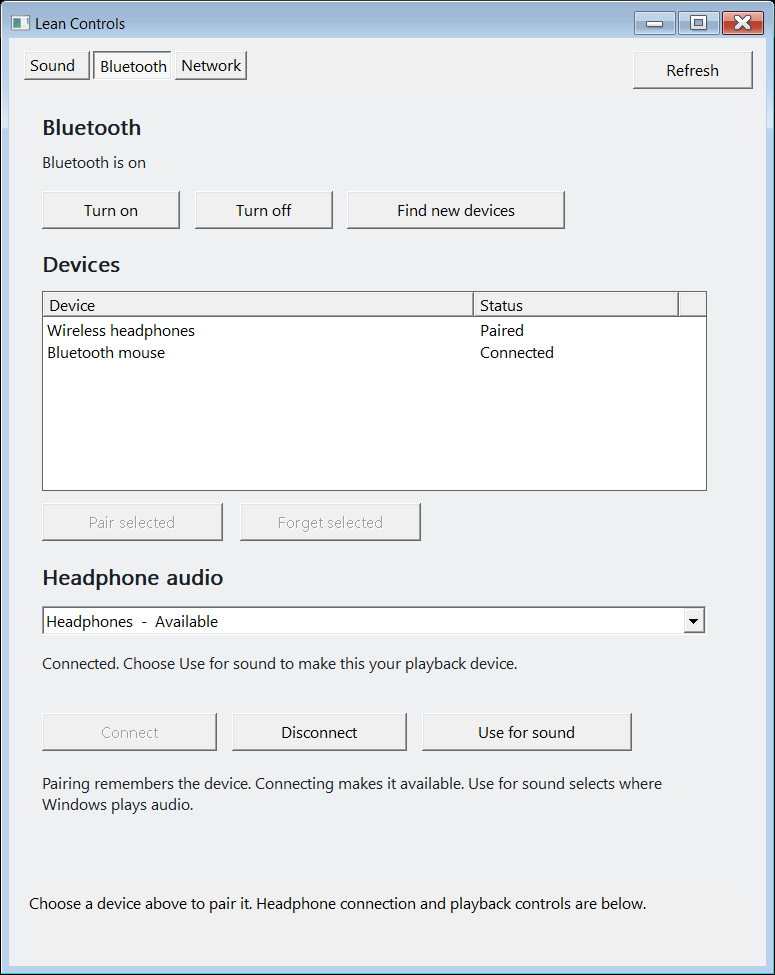
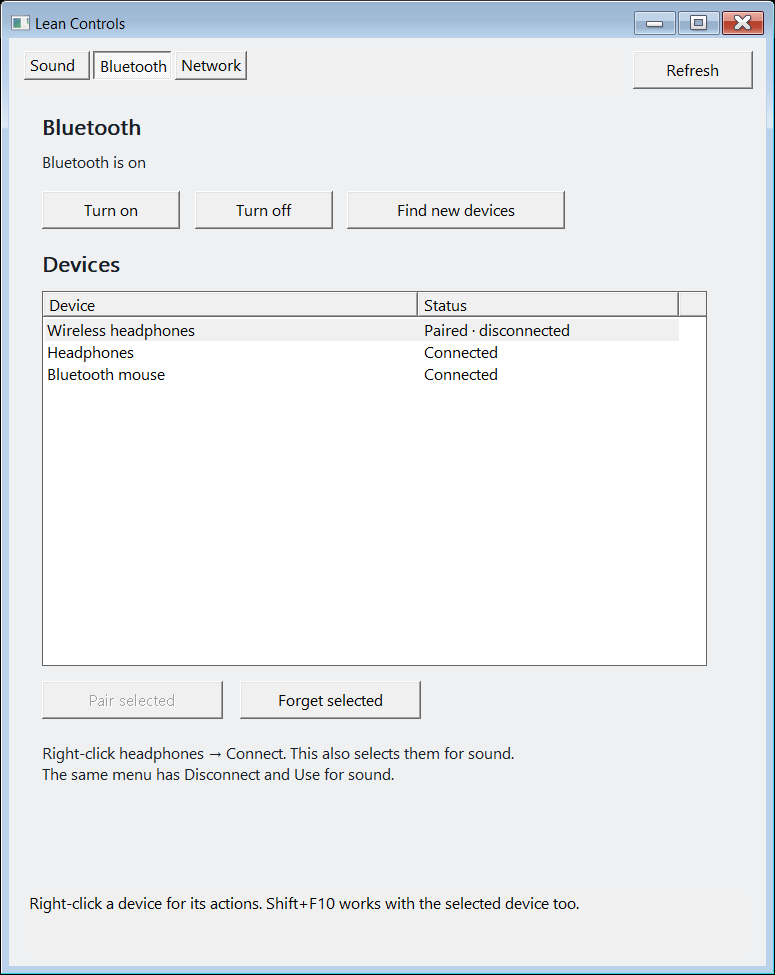
Connect Bluetooth headphones directly from their context menu

diff --git a/ControlsWireless.h b/ControlsWireless.h
@@ -7,12 +7,12 @@
 #include <winrt/Windows.Devices.Radios.h>
 using namespace winrt::Windows::Devices::Enumeration;
 using namespace winrt::Windows::Devices::Radios;
-struct BtDevice { DeviceInformation info{nullptr}; std::wstring name; bool paired=false,connected=false; };
+struct BtDevice { DeviceInformation info{nullptr}; std::wstring name; bool paired=false,connected=false;std::wstring container,aepContainer; };
 static std::vector<BtDevice> bluetoothDevices;
-static HWND bluetoothList{}, bluetoothAudioCombo{}, wifiList{}, wifiAdapterCombo{};
+static HWND bluetoothList{}, wifiList{}, wifiAdapterCombo{};
 static std::vector<AudioOutput> bluetoothOutputs;
-static HWND bluetoothRadioLabel{},bluetoothAudioStatus{};
-static std::wstring bluetoothRadioStatus=L"Checking Bluetooth...",selectedBluetoothOutput;
+static HWND bluetoothRadioLabel{};
+static std::wstring bluetoothRadioStatus=L"Checking Bluetooth...";
 static HANDLE wlan{};
 static std::vector<WLAN_INTERFACE_INFO> wifiAdapters;
 struct WifiNetwork { std::wstring name,profile; DOT11_SSID ssid{}; DOT11_AUTH_ALGORITHM auth{}; DOT11_CIPHER_ALGORITHM cipher{}; bool connected=false,secure=false; ULONG signal=0; };
@@ -52,28 +52,35 @@ static void UpdateBluetoothDeviceButtons(){
     EnableWindow(GetDlgItem(content,214),selected && !bluetoothDevices[i].paired);
     EnableWindow(GetDlgItem(content,215),selected && bluetoothDevices[i].paired);
 }
-static void UpdateBluetoothAudioButtons(){
-    int i=bluetoothAudioCombo?static_cast<int>(SendMessage(bluetoothAudioCombo,CB_GETCURSEL,0,0)):-1;
-    bool selected=i>=0 && i<static_cast<int>(bluetoothOutputs.size());
-    bool connected=selected && bluetoothOutputs[i].state==DEVICE_STATE_ACTIVE;
-    bool current=selected && bluetoothOutputs[i].id==CurrentOutput();
-    EnableWindow(GetDlgItem(content,217),selected && !connected && !(bluetoothOutputs[i].state&DEVICE_STATE_DISABLED));
-    EnableWindow(GetDlgItem(content,218),connected);
-    EnableWindow(GetDlgItem(content,219),connected && !current && !busy);
-    if(selected)selectedBluetoothOutput=bluetoothOutputs[i].id;
-    const wchar_t* state=!selected?L"No compatible headphone output found. Pair headphones, then refresh.":current?L"Connected and selected for playback.":connected?L"Connected. Choose Use for sound to make this your playback device.":L"Not connected. Turn on your headphones and choose Connect.";
-    if(bluetoothAudioStatus)SetWindowText(bluetoothAudioStatus,state);
+static std::wstring DeviceContainer(const DeviceInformation& d,const wchar_t* property){
+    try{auto value=d.Properties().TryLookup(property);return value?ContainerKey(winrt::unbox_value<winrt::guid>(value)):L"";}catch(...){return L"";}
+}
+static std::vector<AudioOutput> DeviceAudio(const BtDevice& device,const std::vector<AudioOutput>& all){
+    std::vector<AudioOutput> found;
+    for(const auto& output:all)if(!output.container.empty() && (output.container==device.container || output.container==device.aepContainer))found.push_back(output);
+    return found;
+}
+static int PreferredBluetoothOutput(const std::vector<AudioOutput>& audio,bool activeOnly=false){
+    auto current=CurrentOutput();int chosen=-1;
+    for(int i=0;i<static_cast<int>(audio.size());++i){auto& a=audio[i];if(a.state&DEVICE_STATE_DISABLED || (activeOnly && a.state!=DEVICE_STATE_ACTIVE))continue;
+        if(chosen<0 || (a.state==DEVICE_STATE_ACTIVE && audio[chosen].state!=DEVICE_STATE_ACTIVE) || a.id==current)chosen=i;
+        if(a.id==current && a.state==DEVICE_STATE_ACTIVE)break;
+    }return chosen;
 }
 static void FillBluetoothList() {
-    if(!bluetoothList)return;ListView_DeleteAllItems(bluetoothList);
-    for(int i=0;i<static_cast<int>(bluetoothDevices.size());++i) {auto& d=bluetoothDevices[i];ListRow(bluetoothList,i,d.name,d.connected?L"Connected":d.paired?L"Paired":L"Ready to pair");}
+    if(!bluetoothList)return;ListView_DeleteAllItems(bluetoothList);auto current=CurrentOutput();
+    for(int i=0;i<static_cast<int>(bluetoothDevices.size());++i) {auto& d=bluetoothDevices[i];auto audio=DeviceAudio(d,bluetoothOutputs);int active=PreferredBluetoothOutput(audio,true);
+        std::wstring state=!d.paired?L"Ready to pair":active>=0?(audio[active].id==current?L"Connected · sound output":L"Connected"):
+            !audio.empty()?L"Paired · disconnected":d.connected?L"Connected":L"Paired";
+        ListRow(bluetoothList,i,d.name,state);
+    }
     UpdateBluetoothDeviceButtons();
 }
 static std::vector<BtDevice> CollectBluetoothDevices(bool discover) {
         std::vector<BtDevice> found;
         const wchar_t* query=L"System.Devices.Aep.ProtocolId:=\"{e0cbf06c-cd8b-4647-bb8a-263b43f0f974}\" OR System.Devices.Aep.ProtocolId:=\"{bb7bb05e-5972-42b5-94fc-76eaa7084d49}\"";
-        auto props=winrt::single_threaded_vector<winrt::hstring>({L"System.Devices.Aep.IsConnected"});
-        auto collect=[&](const DeviceInformation& d){if(d.Name().empty())return;found.push_back({d,d.Name().c_str(),d.Pairing().IsPaired(),DeviceFlag(d,L"System.Devices.Aep.IsConnected")});};
+        auto props=winrt::single_threaded_vector<winrt::hstring>({L"System.Devices.Aep.IsConnected",L"System.Devices.ContainerId",L"System.Devices.Aep.ContainerId"});
+        auto collect=[&](const DeviceInformation& d){if(d.Name().empty())return;found.push_back({d,d.Name().c_str(),d.Pairing().IsPaired(),DeviceFlag(d,L"System.Devices.Aep.IsConnected"),DeviceContainer(d,L"System.Devices.ContainerId"),DeviceContainer(d,L"System.Devices.Aep.ContainerId")});};
         {
             struct ScanState {std::mutex lock;std::map<std::wstring,DeviceInformation> devices;};
             auto state=std::make_shared<ScanState>();
@@ -94,7 +101,7 @@ static void ReadBluetooth(bool discover) {
         for(auto r:Radio::GetRadiosAsync().get())if(r.Kind()==RadioKind::Bluetooth){hasRadio=true;on=on || r.State()==RadioState::On;}
         std::wstring radios=!hasRadio?L"No Bluetooth adapter found":on?L"Bluetooth is on":L"Bluetooth is off";
         Deliver([found=std::move(found),radios]() mutable {bluetoothDevices=std::move(found);bluetoothRadioStatus=radios;if(page==1){FillBluetoothList();SetWindowText(bluetoothRadioLabel,radios.c_str());}});
-        return discover?L"Scan complete. Select a device, then choose Pair.":L"Paired devices are listed above. Connect headphones in the Audio section.";
+        return discover?L"Scan complete. Select a device, then choose Pair.":L"Right-click your headphones and choose Connect.";
     },discover?L"Scanning for eight seconds. Put the new device in pairing mode...":L"Reading Bluetooth devices...");
 }
 static void BuildBluetooth(bool scan) {
@@ -102,28 +109,18 @@ static void BuildBluetooth(bool scan) {
     bluetoothRadioLabel=Add(L"STATIC",demo?L"Bluetooth is on":bluetoothRadioStatus.c_str(),0,16,38,532,24);
     Add(L"BUTTON",L"Turn on",0,16,70,110,30,210);Add(L"BUTTON",L"Turn off",0,138,70,110,30,211);Add(L"BUTTON",L"Find new devices",0,260,70,174,30,212);
     Section(L"Devices",116);
-    bluetoothList=MakeList(213,150,160,{{L"Device",345},{L"Status",164}});
-    if(demo) {ListRow(bluetoothList,0,L"Wireless headphones",L"Paired");ListRow(bluetoothList,1,L"Bluetooth mouse",L"Connected");}
-    else FillBluetoothList();
-    Add(L"BUTTON",L"Pair selected",0,16,320,145,30,214);Add(L"BUTTON",L"Forget selected",0,174,320,145,30,215);
-    Section(L"Headphone audio",366);
-    bluetoothAudioCombo=Add(L"COMBOBOX",L"",CBS_DROPDOWNLIST|WS_VSCROLL,16,402,532,230,216);
-    bluetoothOutputs.clear();
-    for(auto& output:demo?DemoOutputs():ReadOutputs(true))if(output.bluetooth)bluetoothOutputs.push_back(output);
-    int chosen=0;auto current=CurrentOutput();
-    for(int i=0;i<static_cast<int>(bluetoothOutputs.size());++i){auto& output=bluetoothOutputs[i];std::wstring text=output.name+L"  -  "+OutputState(output,current);SendMessage(bluetoothAudioCombo,CB_ADDSTRING,0,reinterpret_cast<LPARAM>(text.c_str()));if(output.id==selectedBluetoothOutput || (selectedBluetoothOutput.empty() && output.id==current))chosen=i;}
-    SendMessage(bluetoothAudioCombo,CB_SETCURSEL,chosen,0);
-    bluetoothAudioStatus=Add(L"STATIC",L"",0,16,439,532,39);
-    Add(L"BUTTON",L"Connect",0,16,488,140,30,217);Add(L"BUTTON",L"Disconnect",0,168,488,140,30,218);Add(L"BUTTON",L"Use for sound",0,320,488,168,30,219);
-    Add(L"STATIC",L"Pairing remembers the device. Connecting makes it available. Use for sound selects where Windows plays audio.",0,16,535,532,46);
-    ContentHeight(590);UpdateBluetoothDeviceButtons();UpdateBluetoothAudioButtons();
-    Status(L"Choose a device above to pair it. Headphone connection and playback controls are below.");
+    bluetoothList=MakeList(213,150,300,{{L"Device",300},{L"Status",209}});
+    bluetoothOutputs=demo?DemoOutputs():ReadOutputs(true);
+    if(demo)bluetoothDevices={{nullptr,L"Wireless headphones",true,false,L"demo-wireless-container",L""},{nullptr,L"Headphones",true,true,L"demo-headphones-container",L""},{nullptr,L"Bluetooth mouse",true,true,L"demo-mouse-container",L""}};
+    FillBluetoothList();
+    Add(L"BUTTON",L"Pair selected",0,16,462,145,30,214);Add(L"BUTTON",L"Forget selected",0,174,462,145,30,215);
+    Add(L"STATIC",L"Right-click headphones → Connect. This also selects them for sound.\nThe same menu has Disconnect and Use for sound.",0,16,511,532,50);
+    ContentHeight(568);UpdateBluetoothDeviceButtons();
+    Status(L"Right-click a device for its actions. Shift+F10 works with the selected device too.");
     if(!demo && scan)ReadBluetooth(false);
 }
-static void PairBluetooth(bool forget) {
-    int i=ListView_GetNextItem(bluetoothList,-1,LVNI_SELECTED);
-    if(i<0 || i>=static_cast<int>(bluetoothDevices.size())){Status(L"Select a Bluetooth device first.");return;}
-    auto d=bluetoothDevices[i];
+static void PairBluetoothDevice(const BtDevice& d,bool forget) {
+    if(demo){Status(L"Preview only. No device changed.");return;}
     if(forget && MessageBox(mainWindow,(L"Forget "+d.name+L"? You will need to pair it again.").c_str(),L"Forget device",MB_YESNO|MB_ICONQUESTION)!=IDYES)return;
     RunAsync([d,forget]{
         if(forget){auto r=d.info.Pairing().UnpairAsync().get();return r.Status()==DeviceUnpairingResultStatus::Unpaired || r.Status()==DeviceUnpairingResultStatus::AlreadyUnpaired?L"Device forgotten. Refresh to update the list.":L"Windows could not unpair this device (status "+std::to_wstring(static_cast<int>(r.Status()))+L").";}
@@ -137,6 +134,51 @@ static void PairBluetooth(bool forget) {
         auto result=custom.PairAsync(DevicePairingKinds::ConfirmOnly|DevicePairingKinds::ConfirmPinMatch|DevicePairingKinds::DisplayPin|DevicePairingKinds::ProvidePin).get();custom.PairingRequested(token);
         return result.Status()==DevicePairingResultStatus::Paired || result.Status()==DevicePairingResultStatus::AlreadyPaired?L"Device paired. Refresh, then connect its audio if needed.":L"Pairing did not complete (status "+std::to_wstring(static_cast<int>(result.Status()))+L").";
     },forget?L"Forgetting device...":L"Pairing device...");
+}
+static void PairBluetooth(bool forget){
+    int i=ListView_GetNextItem(bluetoothList,-1,LVNI_SELECTED);
+    if(i<0 || i>=static_cast<int>(bluetoothDevices.size())){Status(L"Select a Bluetooth device first.");return;}PairBluetoothDevice(bluetoothDevices[i],forget);
+}
+static HMENU BluetoothDeviceMenu(const BtDevice& device,const std::vector<AudioOutput>& audio){
+    HMENU menu=CreatePopupMenu();int active=PreferredBluetoothOutput(audio,true);
+    bool connect=device.paired && std::any_of(audio.begin(),audio.end(),[](auto& a){return a.bluetooth && !(a.state&DEVICE_STATE_DISABLED);});
+    bool disconnect=std::any_of(audio.begin(),audio.end(),[](auto& a){return a.bluetooth && a.state==DEVICE_STATE_ACTIVE;});
+    auto add=[&](UINT id,const wchar_t* text,bool enabled){AppendMenu(menu,MF_STRING|(!busy && enabled?MF_ENABLED:MF_GRAYED),id,text);};
+    add(4001,L"Connect",connect || active>=0);add(4002,L"Disconnect",disconnect);add(4003,L"Use for sound",active>=0);
+    AppendMenu(menu,MF_SEPARATOR,0,nullptr);add(4010,L"Pair",!device.paired);add(4011,L"Forget device",device.paired);return menu;
+}
+static void BluetoothDeviceAction(const BtDevice& device,UINT command){
+    if(command==4010 || command==4011){PairBluetoothDevice(device,command==4011);return;}
+    if(command<4001 || command>4003)return;
+    if(demo){Status(L"Preview: "+device.name+L" selected. No real device changed.");return;}
+    RunAsync([device,command]() -> std::wstring {
+        // Re-resolve this physical device, never the current selection or a name match.
+        auto audio=DeviceAudio(device,ReadOutputs(true));int active=PreferredBluetoothOutput(audio,true);
+        if(command==4002){
+            int disconnected=0;for(auto& a:audio)if(a.bluetooth && a.state==DEVICE_STATE_ACTIVE){BluetoothAudioRequest(a.id,false);++disconnected;}
+            auto after=DeviceAudio(device,ReadOutputs(true));return PreferredBluetoothOutput(after,true)<0?device.name+L" disconnected.":disconnected?L"Disconnect requested. Refresh to check the device.":L"No supported connected audio output was found for this device.";
+        }
+        if(active<0 && command==4001){
+            auto candidate=std::find_if(audio.begin(),audio.end(),[](auto& a){return a.bluetooth && !(a.state&DEVICE_STATE_DISABLED);});
+            if(candidate==audio.end())return L"No supported audio connection was found for these headphones. Pair them first, then Refresh.";
+            auto result=BluetoothAudioRequest(candidate->id,true);audio=DeviceAudio(device,ReadOutputs(true));active=PreferredBluetoothOutput(audio,true);if(active<0)return result;
+        }
+        if(active<0)return L"These headphones are not connected. Choose Connect first.";
+        HRESULT hr=MakeDefaultOutput(audio[active].id);
+        if(FAILED(hr))return device.name+L" is connected, but Windows could not select it for sound: "+ErrorText(hr);
+        if(DefaultOutput()!=audio[active].id)return device.name+L" is connected. Windows has not switched the sound output yet.";
+        return L"Connected and playing through: "+device.name;
+    },command==4002?L"Disconnecting "+device.name+L"...":L"Connecting / selecting "+device.name+L"...",true);
+}
+static void ShowBluetoothMenu(POINT point){
+    int index=-1;
+    if(point.x==-1 && point.y==-1){index=ListView_GetNextItem(bluetoothList,-1,LVNI_SELECTED);RECT row{};if(index>=0 && ListView_GetItemRect(bluetoothList,index,&row,LVIR_BOUNDS)){point={row.left+S(20),row.bottom};ClientToScreen(bluetoothList,&point);}}
+    else {POINT local=point;ScreenToClient(bluetoothList,&local);LVHITTESTINFO hit{};hit.pt=local;index=ListView_HitTest(bluetoothList,&hit);}
+    if(index<0 || index>=static_cast<int>(bluetoothDevices.size()))return;
+    ListView_SetItemState(bluetoothList,index,LVIS_SELECTED|LVIS_FOCUSED,LVIS_SELECTED|LVIS_FOCUSED);
+    auto device=bluetoothDevices[index];auto audio=DeviceAudio(device,bluetoothOutputs);HMENU menu=BluetoothDeviceMenu(device,audio);
+    UINT command=TrackPopupMenu(menu,TPM_RETURNCMD|TPM_RIGHTBUTTON,point.x,point.y,0,mainWindow,nullptr);DestroyMenu(menu);
+    if(command)BluetoothDeviceAction(device,command);
 }
 static std::wstring SetBluetoothRadio(bool on) {
     auto access=Radio::RequestAccessAsync().get();

diff --git a/LeanControls.cpp b/LeanControls.cpp
@@ -107,7 +107,7 @@ static void BuildPage(bool scanBluetooth){
     ClearAudio();if(page!=0){audioScroll=0;SetAudioWatch(L"");}
     for(auto& c:controls)DestroyWindow(c.hwnd);controls.clear();
     masterSlider=masterMute=masterValue=outputCombo=nullptr;
-    bluetoothList=bluetoothAudioCombo=wifiList=wifiAdapterCombo=nullptr;
+    bluetoothList=wifiList=wifiAdapterCombo=nullptr;
     scrollOffset=0;contentHeight=520;
     try{if(page==0)BuildSound();else if(page==1)BuildBluetooth(scanBluetooth);else BuildNetwork();}
     catch(const winrt::hresult_error& e){Status(ErrorText(e.code()));}
@@ -124,15 +124,12 @@ static void HandleCommand(int id,int notification){
         if(i>=0 && i<static_cast<int>(outputs.size())){selectedOutput=outputs[i].id;audioScroll=0;PostMessage(mainWindow,WM_APP+9,0,0);}return;
     }
     if(id==111){RequestAudioOutput(selectedOutput);return;}
-    if(id==216 && notification==CBN_SELCHANGE){UpdateBluetoothAudioButtons();return;}
-    if(id==219){int i=static_cast<int>(SendMessage(bluetoothAudioCombo,CB_GETCURSEL,0,0));if(i>=0 && i<static_cast<int>(bluetoothOutputs.size()))RequestAudioOutput(bluetoothOutputs[i].id);return;}
     if(demo)return;
     if(id==121){HRESULT hr=master?master->SetMute(SendMessage(masterMute,BM_GETCHECK,0,0)==BST_CHECKED,&AudioContext):E_FAIL;if(FAILED(hr))Status(ErrorText(hr));}
     else if(id>=1001 && (id-1001)%2==0){int i=(id-1001)/2;if(i<static_cast<int>(audioRows.size())){auto& row=audioRows[i];if(row.volume){HRESULT hr=row.volume->SetMute(SendMessage(row.mute,BM_GETCHECK,0,0)==BST_CHECKED,&AudioContext);if(FAILED(hr))Status(ErrorText(hr));}}}
     else if(id==210 || id==211)RunAsync([id]{return SetBluetoothRadio(id==210);},L"Changing Bluetooth radio state...",true);
     else if(id==212)ReadBluetooth(true);
     else if(id==214 || id==215)PairBluetooth(id==215);
-    else if(id==217 || id==218){int i=static_cast<int>(SendMessage(bluetoothAudioCombo,CB_GETCURSEL,0,0));if(i>=0 && i<static_cast<int>(bluetoothOutputs.size())){auto endpoint=bluetoothOutputs[i].id;RunAsync([endpoint,id]{return BluetoothAudioRequest(endpoint,id==217);},id==217?L"Connecting headphones...":L"Disconnecting headphones...",true);}else Status(L"Pair your headphones first, then refresh this page.");}
     else if(id==310 && notification==CBN_SELCHANGE){adapterIndex=static_cast<int>(SendMessage(wifiAdapterCombo,CB_GETCURSEL,0,0));BuildPage();}
     else if(id==311 && !wifiAdapters.empty()){DWORD error=WlanScan(wlan,&wifiAdapters[adapterIndex].InterfaceGuid,nullptr,nullptr,nullptr);Status(error?L"Scan unavailable: "+ErrorText(HRESULT_FROM_WIN32(error)):L"Scanning nearby networks...");}
     else if(id==312 || id==313)WifiRadio(id==312);
@@ -142,6 +139,7 @@ static void HandleCommand(int id,int notification){
 static LRESULT CALLBACK ContentProcedure(HWND w,UINT msg,WPARAM wp,LPARAM lp){
     switch(msg){
     case WM_NOTIFY:if(reinterpret_cast<NMHDR*>(lp)->hwndFrom==bluetoothList)UpdateBluetoothDeviceButtons();return 0;
+    case WM_CONTEXTMENU:if(page==1 && reinterpret_cast<HWND>(wp)==bluetoothList){ShowBluetoothMenu({GET_X_LPARAM(lp),GET_Y_LPARAM(lp)});return 0;}break;
     case WM_COMMAND:try{HandleCommand(LOWORD(wp),HIWORD(wp));}catch(HRESULT hr){Status(ErrorText(hr));}catch(const winrt::hresult_error& e){Status(ErrorText(e.code()));}return 0;
     case WM_HSCROLL:AudioSlider(reinterpret_cast<HWND>(lp));return 0;
     case WM_VSCROLL:{int command=LOWORD(wp);if(command==SB_LINEUP)scrollOffset-=S(32);if(command==SB_LINEDOWN)scrollOffset+=S(32);if(command==SB_PAGEUP)scrollOffset-=S(220);if(command==SB_PAGEDOWN)scrollOffset+=S(220);if(command==SB_THUMBTRACK || command==SB_THUMBPOSITION){SCROLLINFO si{sizeof(si),SIF_TRACKPOS};GetScrollInfo(w,SB_VERT,&si);scrollOffset=si.nTrackPos;}ScrollLayout();return 0;}
@@ -220,6 +218,7 @@ static int Probe(const std::wstring& path){
     std::thread bt([&report]{
         try{winrt::init_apartment(winrt::apartment_type::multi_threaded);auto radios=Radio::GetRadiosAsync().get();int count=0;for(auto r:radios)if(r.Kind()==RadioKind::Bluetooth)++count;report<<L"Bluetooth radios: "<<count<<L"\n";
             auto devices=CollectBluetoothDevices(false);report<<L"Paired Bluetooth devices: "<<devices.size()<<L"\n";
+            auto audio=ReadOutputs(true);for(auto& device:devices){auto matched=DeviceAudio(device,audio);report<<L"Device: "<<device.name<<L"; audio matches="<<matched.size()<<L"; reconnect controls="<<std::count_if(matched.begin(),matched.end(),[](auto& a){return a.bluetooth;})<<L"\n";}
         }catch(const winrt::hresult_error& e){report<<L"Bluetooth probe: "<<ErrorText(e.code())<<L"\n";}winrt::uninit_apartment();
     });bt.join();
     WifiNetwork sample;sample.name=L"A&B <home>";sample.secure=true;sample.auth=DOT11_AUTH_ALGO_RSNA_PSK;sample.ssid.uSSIDLength=3;sample.ssid.ucSSID[0]='A';sample.ssid.ucSSID[1]='&';sample.ssid.ucSSID[2]='B';auto xml=WifiProfile(sample,L"pass<&word");bool escaped=xml.find(L"A&amp;B &lt;home&gt;")!=std::wstring::npos && xml.find(L"pass&lt;&amp;word")!=std::wstring::npos && xml.find(L"412642")!=std::wstring::npos;report<<(escaped?L"PASS":L"FAIL")<<L" Wi-Fi XML escaping and raw SSID bytes\n";if(!escaped)++failures;
@@ -276,10 +275,16 @@ int WINAPI wWinMain(HINSTANCE h,HINSTANCE,PWSTR,int){
                 selectedOutput=demoDefaultOutput;BuildPage(false);
             }
             if(page==1){
-                SendMessage(bluetoothAudioCombo,CB_SETCURSEL,1,0);UpdateBluetoothAudioButtons();
-                layoutOk=layoutOk && IsWindowEnabled(GetDlgItem(content,217)) && !IsWindowEnabled(GetDlgItem(content,219));
-                SendMessage(bluetoothAudioCombo,CB_SETCURSEL,0,0);UpdateBluetoothAudioButtons();
-                layoutOk=layoutOk && !IsWindowEnabled(GetDlgItem(content,217)) && IsWindowEnabled(GetDlgItem(content,218)) && IsWindowEnabled(GetDlgItem(content,219));
+                auto enabled=[](HMENU menu,UINT id){return (GetMenuState(menu,id,MF_BYCOMMAND)&(MF_DISABLED|MF_GRAYED))==0;};
+                auto wireless=DeviceAudio(bluetoothDevices[0],bluetoothOutputs);auto menu=BluetoothDeviceMenu(bluetoothDevices[0],wireless);
+                layoutOk=layoutOk && wireless.size()==1 && wireless[0].id==L"demo-wireless" && enabled(menu,4001) && !enabled(menu,4002) && !enabled(menu,4003);DestroyMenu(menu);
+                auto connected=DeviceAudio(bluetoothDevices[1],bluetoothOutputs);menu=BluetoothDeviceMenu(bluetoothDevices[1],connected);
+                layoutOk=layoutOk && enabled(menu,4001) && enabled(menu,4002) && enabled(menu,4003);DestroyMenu(menu);
+                menu=BluetoothDeviceMenu(bluetoothDevices[2],DeviceAudio(bluetoothDevices[2],bluetoothOutputs));
+                layoutOk=layoutOk && !enabled(menu,4001) && !enabled(menu,4002) && enabled(menu,4011);DestroyMenu(menu);
+                auto unrelated=bluetoothDevices[0];unrelated.container=L"different-physical-device";
+                layoutOk=layoutOk && DeviceAudio(unrelated,bluetoothOutputs).empty(); // Identical names must not route to another headset.
+                ListView_SetItemState(bluetoothList,0,LVIS_SELECTED|LVIS_FOCUSED,LVIS_SELECTED|LVIS_FOCUSED);
             }
         }
         if(demo && page==0 && !audioRows.empty()){

diff --git a/ControlsAudio.h b/ControlsAudio.h
@@ -13,7 +13,7 @@
 #include "WindowNames.h"
 using Microsoft::WRL::ComPtr;
 
-struct AudioOutput { std::wstring id, name; DWORD state = 0; bool bluetooth = false; };
+struct AudioOutput { std::wstring id, name; DWORD state = 0; bool bluetooth = false; std::wstring container; };
 struct AudioRow { std::wstring name, appName; ComPtr<ISimpleAudioVolume> volume; HWND slider{}, mute{}, value{}, titleLabel{}; HICON icon{}; DWORD pid=0; AudioSessionState state=AudioSessionStateInactive; };
 static std::vector<AudioOutput> outputs;
 static std::vector<AudioRow> audioRows;
@@ -151,6 +151,14 @@ static std::wstring AudioName(IMMDevice* device) {
     }
     return name;
 }
+static std::wstring ContainerKey(const GUID& value){
+    if(IsEqualGUID(value,GUID_NULL))return L"";wchar_t text[40]{};StringFromGUID2(value,text,40);return LowerName(text);
+}
+static std::wstring AudioContainer(IMMDevice* device){
+    ComPtr<IPropertyStore> props;PROPVARIANT value{};std::wstring result;
+    if(SUCCEEDED(device->OpenPropertyStore(STGM_READ,&props)) && SUCCEEDED(props->GetValue(PKEY_Device_ContainerId,&value)) && value.vt==VT_CLSID && value.puuid)result=ContainerKey(*value.puuid);
+    PropVariantClear(&value);return result;
+}
 static ComPtr<IKsControl> BluetoothControl(IMMDevice* endpoint) {
     ComPtr<IDeviceTopology> topology; ComPtr<IConnector> connector; LPWSTR adapterId=nullptr;
     Check(endpoint->Activate(__uuidof(IDeviceTopology),CLSCTX_ALL,nullptr,&topology));
@@ -177,7 +185,7 @@ static std::vector<AudioOutput> ReadOutputs(bool detectBluetooth=false) {
         ComPtr<IMMDevice> d; LPWSTR id=nullptr; DWORD state=0;
         if(FAILED(devices->Item(i,&d)) || FAILED(d->GetId(&id))) continue;
         d->GetState(&state);
-        result.push_back({id,AudioName(d.Get()),state,detectBluetooth && SupportsBluetooth(d.Get())}); CoTaskMemFree(id);
+        result.push_back({id,AudioName(d.Get()),state,detectBluetooth && SupportsBluetooth(d.Get()),detectBluetooth?AudioContainer(d.Get()):L""}); CoTaskMemFree(id);
     }
     return result;
 }
@@ -187,7 +195,7 @@ static std::wstring DefaultOutput() {
     std::wstring result=id; CoTaskMemFree(id); return result;
 }
 static std::wstring CurrentOutput(){if(demo)return demoDefaultOutput;try{return DefaultOutput();}catch(...){return L"";}}
-static std::vector<AudioOutput> DemoOutputs(){return {{L"demo-speakers",L"Speakers",DEVICE_STATE_ACTIVE,false},{L"demo-headphones",L"Headphones",DEVICE_STATE_ACTIVE,true},{L"demo-wireless",L"Wireless headphones",DEVICE_STATE_UNPLUGGED,true}};}
+static std::vector<AudioOutput> DemoOutputs(){return {{L"demo-speakers",L"Speakers",DEVICE_STATE_ACTIVE,false,L"demo-speakers-container"},{L"demo-headphones",L"Headphones",DEVICE_STATE_ACTIVE,true,L"demo-headphones-container"},{L"demo-wireless",L"Wireless headphones",DEVICE_STATE_UNPLUGGED,true,L"demo-wireless-container"}};}
 static std::wstring OutputState(const AudioOutput& output,const std::wstring& current){
     if(output.state==DEVICE_STATE_ACTIVE)return output.id==current?L"Playing here":L"Available";
     if(output.state&DEVICE_STATE_DISABLED)return L"Disabled in Windows";

diff --git a/README.md b/README.md
@@ -52,7 +52,7 @@ Use the **Sound**, **Bluetooth**, and **Wi-Fi** buttons on the taskbar. These op
 The mixer uses a document/project title when the audio session's process owns one distinct window title. Window events keep that title current. If the process owns multiple windows, or is a browser audio subprocess, it keeps the app/session name because Windows cannot reliably attribute the audio to one document or tab. The second line includes the app name and process ID.
 
 - **Sound:** **Playing through** identifies Windows' default playback device. Choose a device in the list to view its mixer, then click **Play through this** to make it the default for media and calls. The list distinguishes the current output, available devices, and disconnected or disabled devices. Fixed output/master controls sit above a scrolling list of audio sessions, with app icons, playing/idle status, volume sliders and mute. Core Audio events update new sessions and external volume changes without polling. Apps appear once they have created an audio session on the selected output. Multiple sessions from one app appear separately; browser tabs can only be separated when the browser exposes separate Windows audio sessions. Apps with their own output settings may need those changed separately. Closing the panel ends its listener thread too.
-- **Bluetooth:** shows radio status, paired classic/BLE devices, an eight-second discovery scan, pairing with PIN/confirmation handling, and controls to forget a device or turn Bluetooth on/off. Windows may show its required pairing-consent dialog. The **Headphone audio** section separates **Connect**, **Disconnect**, and **Use for sound**. Pairing remembers the device; connecting makes its audio endpoint available; Use for sound makes it the playback default. Available actions reflect the selected endpoint's state. Reconnection requires a compatible driver and checks the resulting audio endpoint state.
+- **Bluetooth:** right-click the headphones in the device list and choose **Connect**. This reconnects their audio if needed and makes them the sound output for playback and calls. The same menu has **Disconnect**, **Use for sound**, **Pair**, and **Forget device**; Shift+F10 opens it for the selected row. The separate audio picker is gone. Device rows show connection/playback status, and audio endpoints are matched by Windows container IDs rather than similar names. Radio controls, an eight-second discovery scan, and PIN/confirmation pairing remain available. Windows may show its required pairing-consent dialog. Reconnection requires a compatible driver and checks the resulting audio endpoint state.
 - **Network:** list Wi-Fi adapters and nearby networks, scan, connect/disconnect, and turn Wi-Fi on/off. Saved profiles use Windows credentials. New open, WPA2-Personal/AES and WPA3-Personal networks use a native password prompt; Windows stores the profile, and the app writes no password files or logs. Enterprise, legacy-security and hidden networks need a preconfigured profile. Wired networking remains managed by Windows; this panel does not edit Ethernet, DNS, proxy, or VPN settings.
 
 ![Native sound mixer with sample applications](docs/assets/sound.png)
@@ -171,7 +171,7 @@ powershell -NoProfile -ExecutionPolicy Bypass -File .\tests\run.ps1
 
 Tests cover task filtering, overflow bounds, native desktop controls, automatic create/rename/hide/delete refreshes, selection preservation, folder navigation, asynchronous icon resolution, overview grouping/scrolling/cleanup, exact-process mixer naming, and crash recovery using **test-owned fixture windows**. A separate process deliberately stalls on settings notifications to verify that the work-area notification and icon lookup return promptly. This test applies the existing work-area rectangle without changing its size; run it in an ordinary interactive desktop session, since restricted sandboxes may deny that Windows API. Tests do not stop your Explorer shell or install startup settings. Test images use synthetic sample files and icons.
 
-The three native controls panels are also rendered with sample data and checked for blank images. The mixer render verifies that scrolling moves app rows while the master controls stay fixed, viewing another mixer does not switch playback, the explicit output button switches the simulated default, and disconnected outputs cannot be selected for playback. Bluetooth checks cover connected/disconnected action states. For a separate hardware check, run `LeanControls.exe --probe report.txt`. For live mixer event tests, use `LeanControls.exe --test-live-sound report.txt`: it verifies that a new isolated session appears automatically, external volume/mute events update its controls, and its slider writes back correctly. These tests only change a dedicated test session, never another app's volume, pairing, radios, network connections, or default output. Reports are local and should not be committed.
+The three native controls panels are also rendered with sample data and checked for blank images. The mixer render verifies that scrolling moves app rows while the master controls stay fixed, viewing another mixer does not switch playback, the explicit output button switches the simulated default, and disconnected outputs cannot be selected for playback. Bluetooth checks cover connected/disconnected context-menu states, non-audio devices, and rejecting same-name devices with different container IDs. For a separate hardware check, run `LeanControls.exe --probe report.txt`; its local report includes paired-device names and matching audio-endpoint counts. For live mixer event tests, use `LeanControls.exe --test-live-sound report.txt`: it verifies that a new isolated session appears automatically, external volume/mute events update its controls, and its slider writes back correctly. These tests only change a dedicated test session, never another app's volume, pairing, radios, network connections, or default output. Reports are local and should not be committed.
 
 App-manager tests cover aggregation, separate installations, parent PID reuse, resource sampling, and normal/forced closure of disposable test-owned processes. They never close the user's applications. The synthetic UI render also checks sorting, project-title filtering, selection preservation, detail tabs, and disabling actions when the selected app exits. Keyboard-layout tests cycle only a test-owned window through the installed layouts and restore its initial layout.
 
